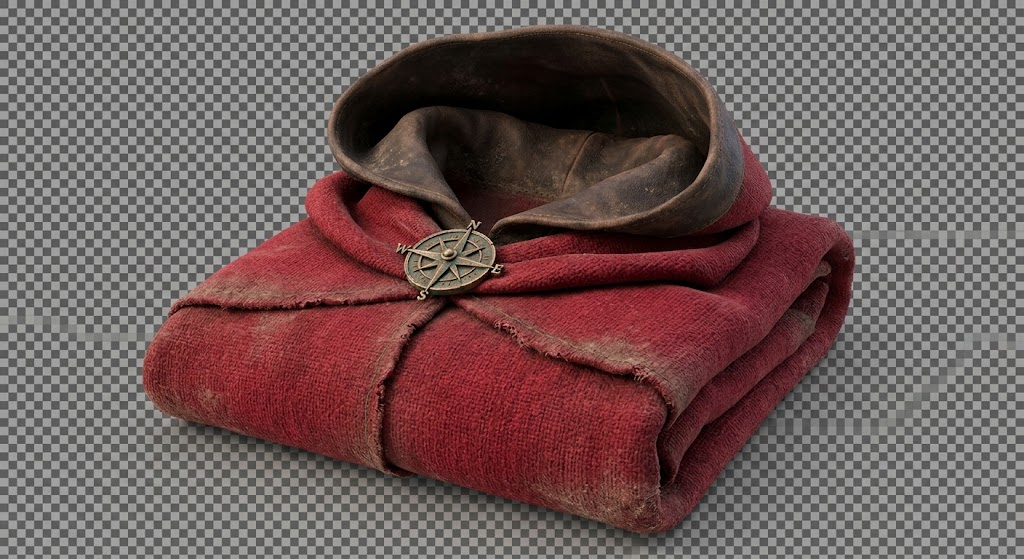
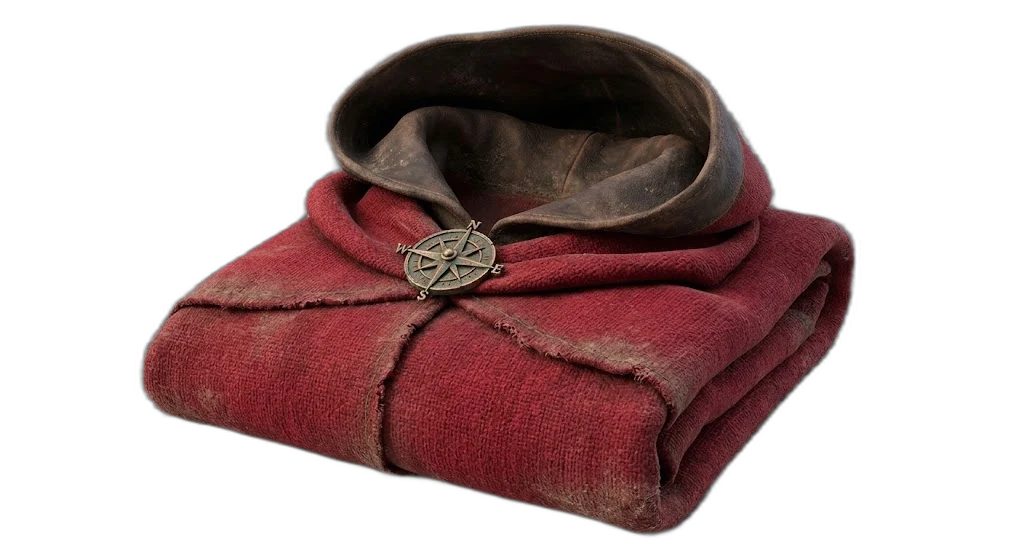
fix: scontorna icone famiglio con rembg — background rimosso
Tutte e 15 le icone in assets/pet/ ri-processate con rembg per
rimuovere correttamente il background (alone grigio residuo AI).

diff --git a/sw.js b/sw.js
@@ -5,7 +5,7 @@
 
 
 
-const CACHE = "heropace-v565";
+const CACHE = "heropace-v566";
 const NOTIF_CACHE = 'heropace-notif-v1'; // stato notifiche (non cancellare mai)
 
 /* File locali per fallback offline */
